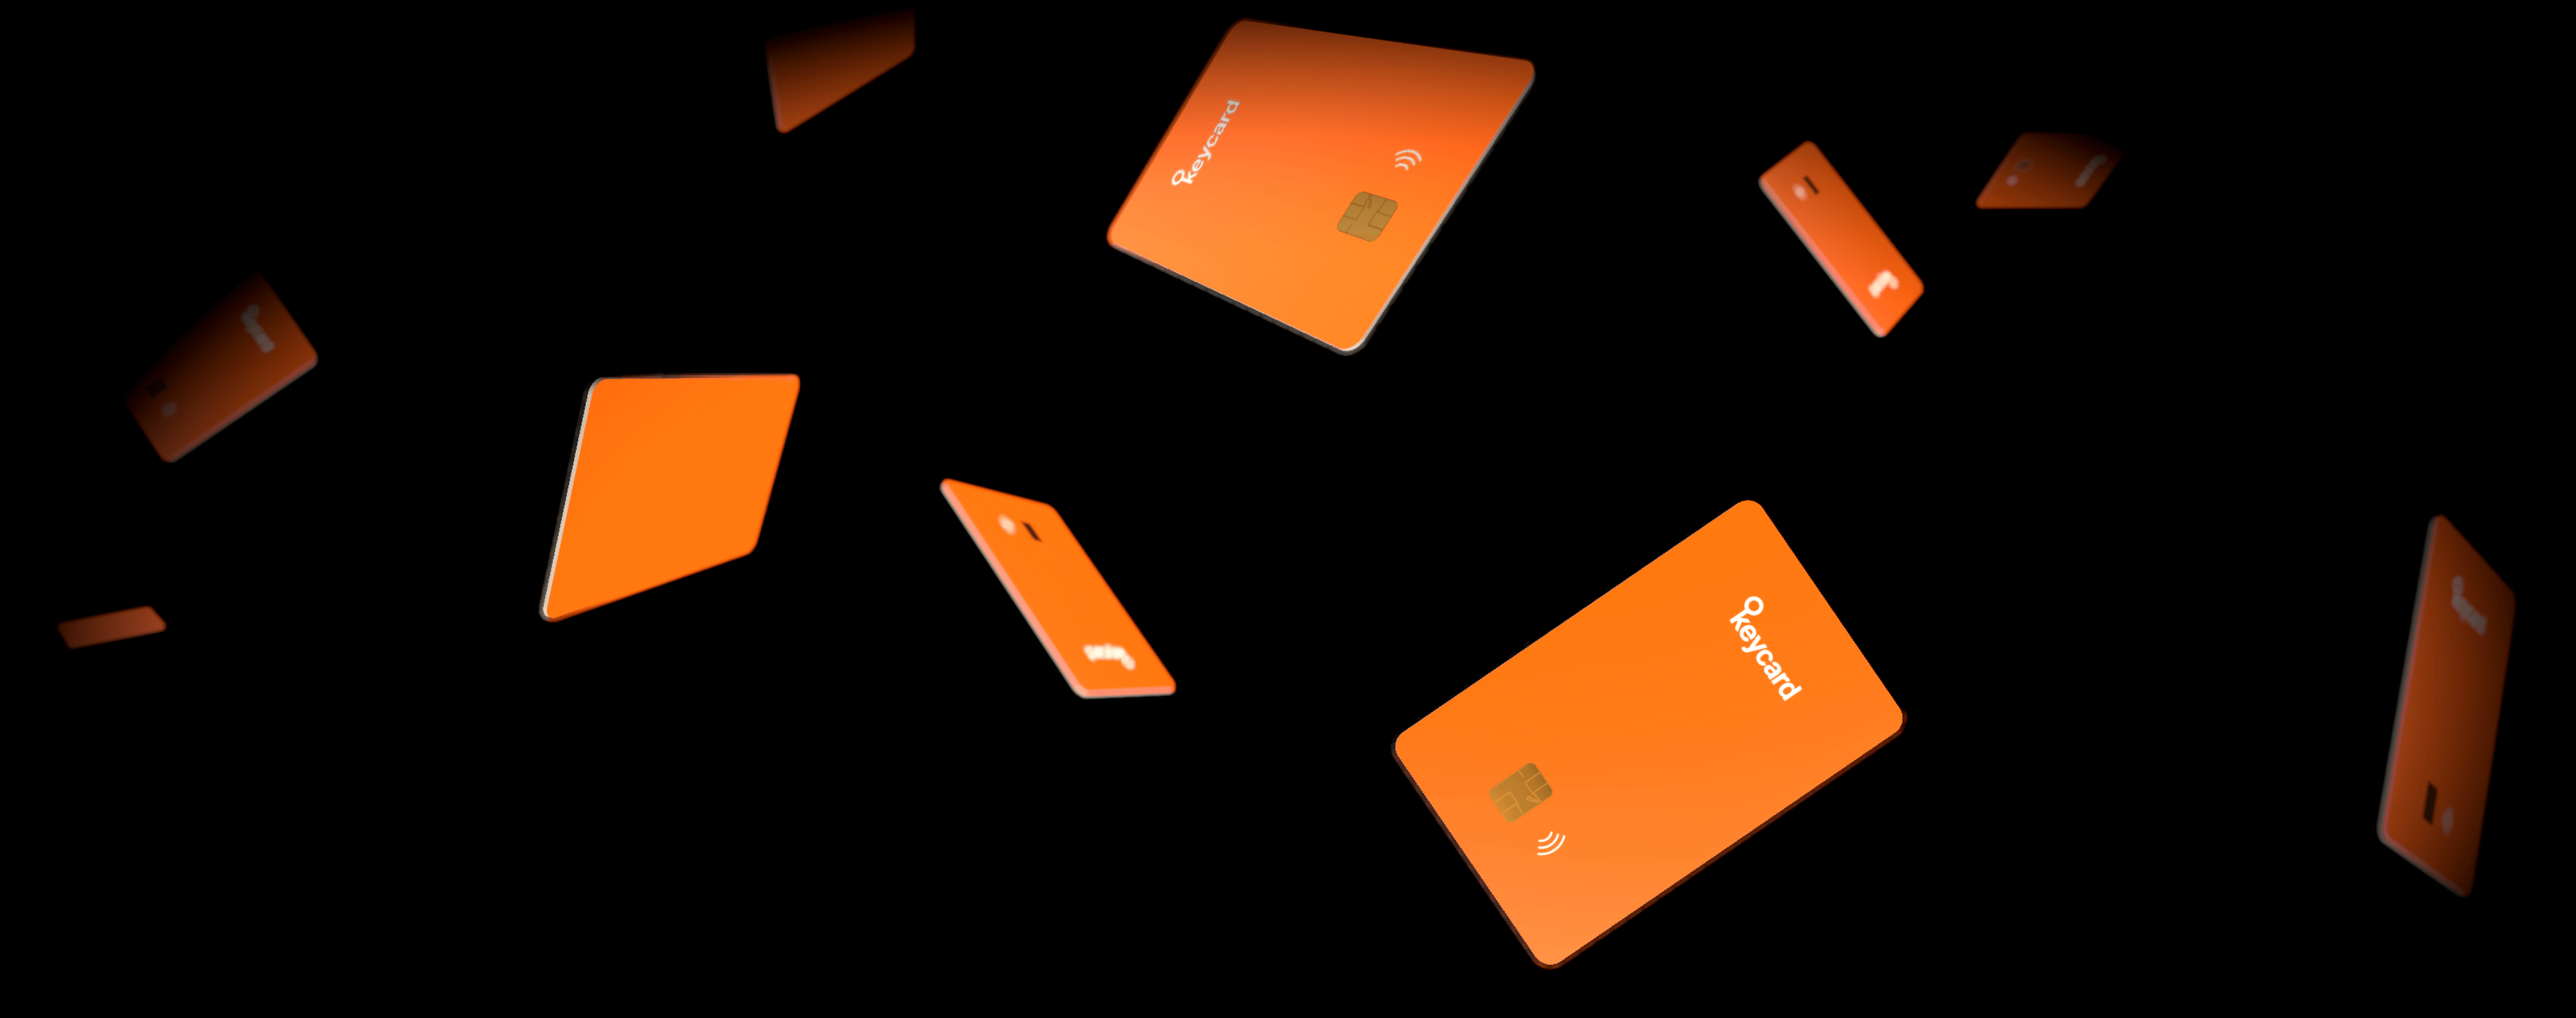
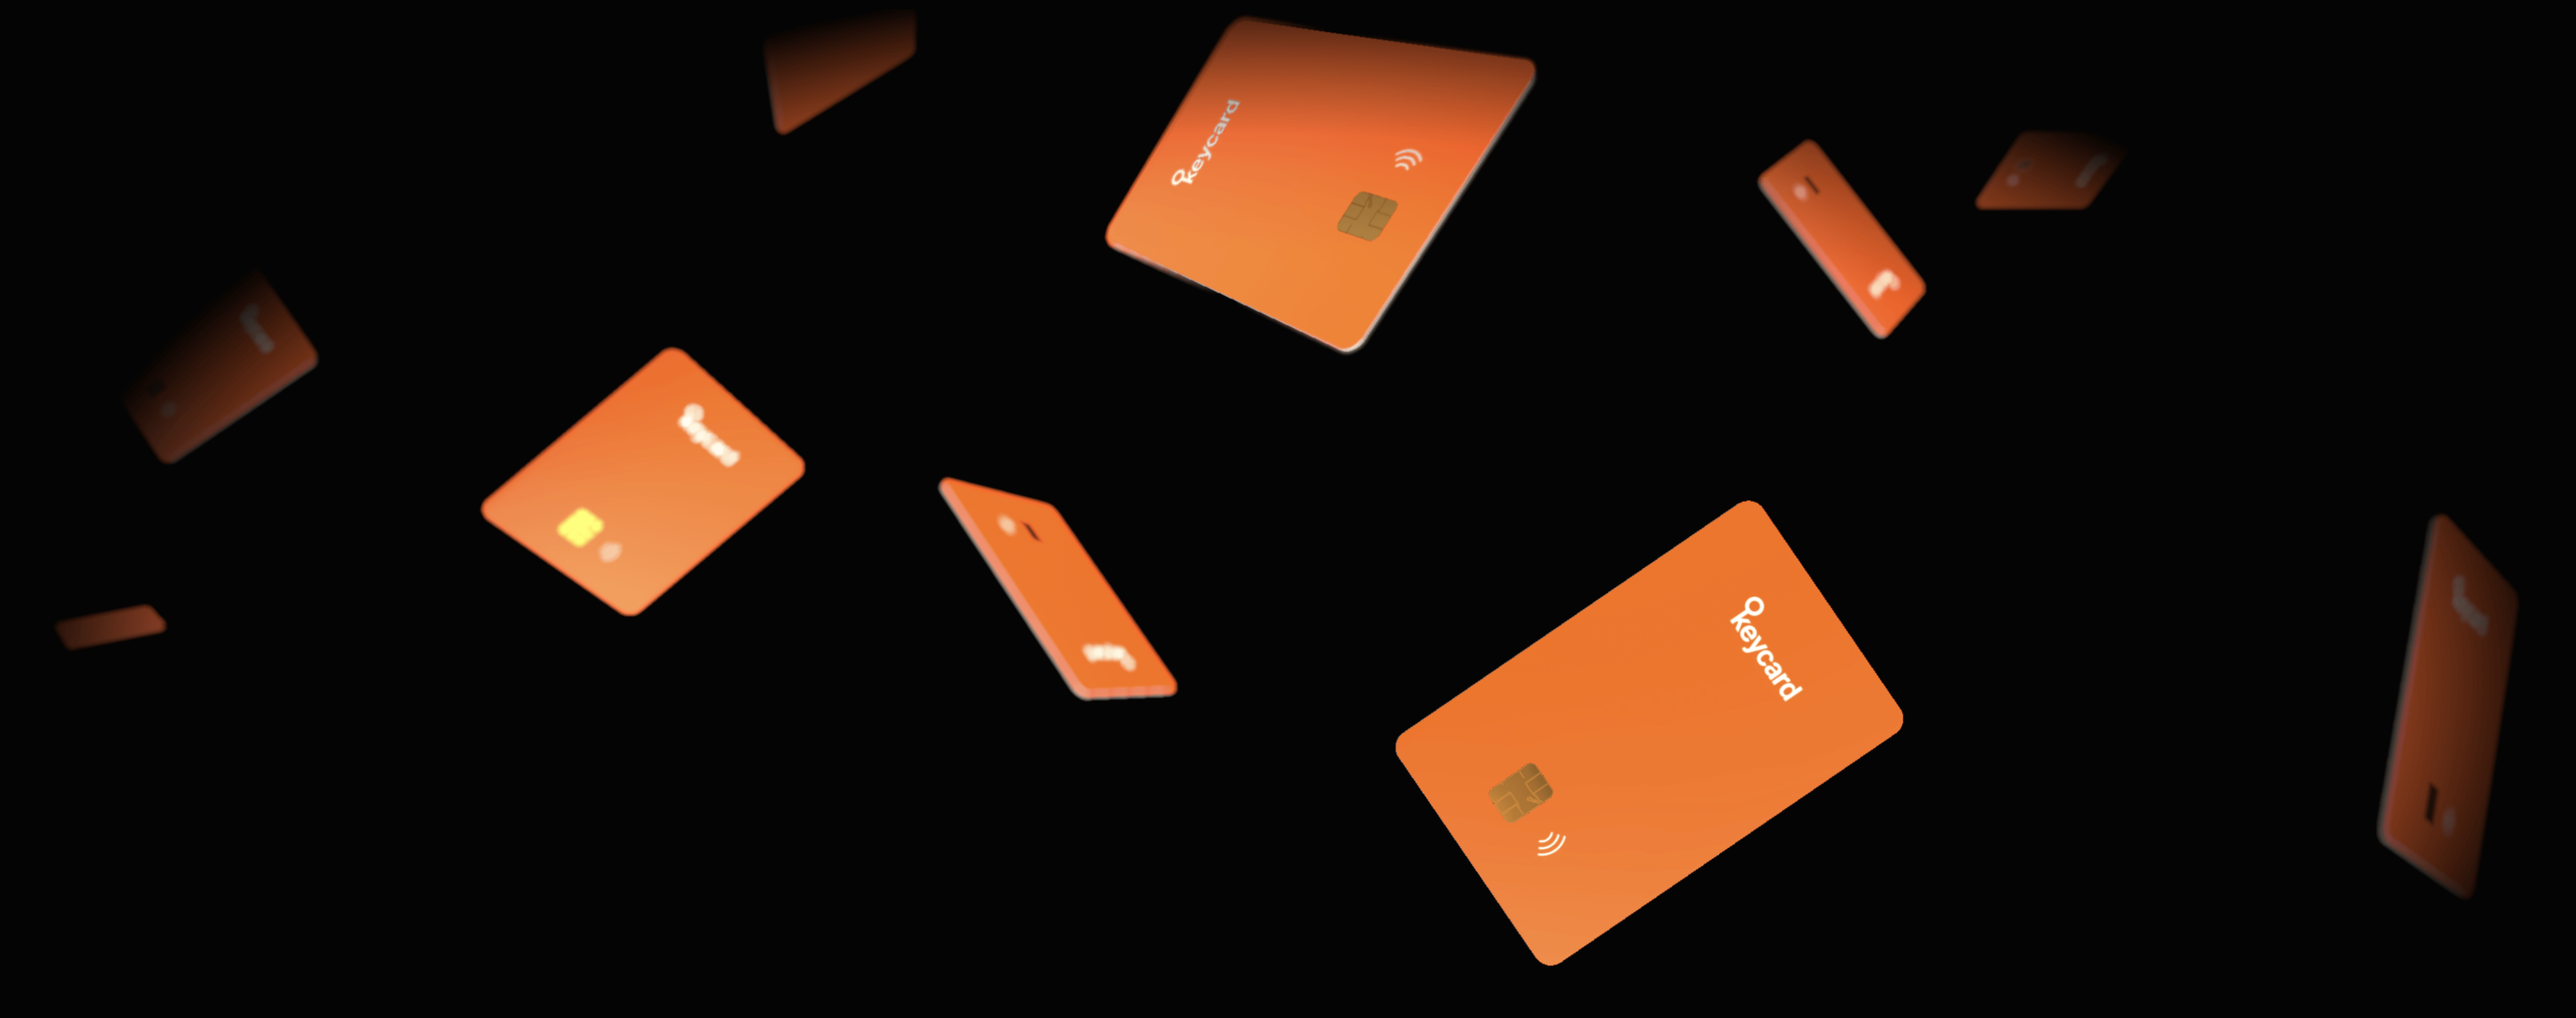
f

diff --git a/src/app/_components/3d/background.tsx b/src/app/_components/3d/background.tsx
@@ -164,12 +164,14 @@ const BackgroundWebGL = (props: Props) => {
   return (
     <div className="absolute size-full">
       <motion.div
-        animate={{ opacity: isMounted ? 0 : 1 }}
+        animate={{
+          opacity: isMounted ? 0 : 1,
+        }}
         transition={{
           duration: 0.3,
           ease: 'easeInOut',
         }}
-        className="absolute left-0 top-0 z-0 size-full translate-y-[20px]"
+        className="absolute left-0 top-0 z-0 size-full translate-y-px scale-[0.99]"
       >
         <Image
           priority
@@ -181,14 +183,13 @@ const BackgroundWebGL = (props: Props) => {
           alt="Keycard Placeholder"
           width={5478}
           height={2166}
-          className="aspect-[5478/2166] h-[74.5%] w-full object-cover blur-2xl"
+          className="aspect-[5478/2166] h-[74.5%] w-full object-cover"
         />
       </motion.div>
       <motion.div
         ref={wrapperRef}
         animate={{
           opacity: isMounted ? 1 : 0,
-          y: isMounted ? 0 : 20,
         }}
         transition={{
           duration: 0.3,
@@ -243,7 +244,7 @@ const BackgroundWebGL = (props: Props) => {
 const BackgroundImage = (props: Props) => {
   const { variant } = props
   return (
-    <div className="absolute size-full translate-y-[20px]">
+    <div className="absolute size-full">
       <Image
         src={
           variant === 'homepage'
@@ -253,7 +254,7 @@ const BackgroundImage = (props: Props) => {
         alt="Keycard"
         width={5478}
         height={2166}
-        className="aspect-[5478/2166] h-[74.5%] w-full object-cover"
+        className="aspect-[5478/2166] h-[74.5%] w-full translate-y-[2px] scale-[0.99] object-cover"
       />
     </div>
   )
